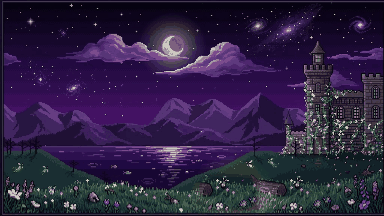
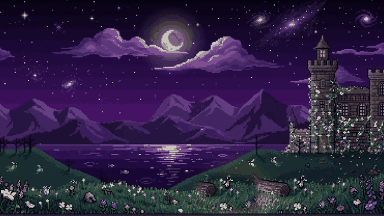
Rahmen aus Nachtwald- und Schattenreich-Hintergrund entfernt

diff --git a/src/version.js b/src/version.js
@@ -1,2 +1,2 @@
-export const VERSION = '20261103012917';
-export const LABEL = '3.23.93';
+export const VERSION = '20261103012946';
+export const LABEL = '3.23.94';
